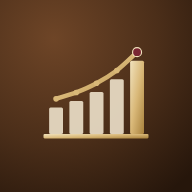
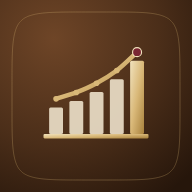
Marco de los iconos con la forma exacta de iOS
Claude-Session: https://claude.ai/code/session_016k35bzsaVrxmGnMwsVbJwM

diff --git a/sw.js b/sw.js
@@ -1,5 +1,5 @@
 /* CiccApps — funciona sin conexión: guarda una copia de cada app y sus piezas al visitarlas. */
-const CACHE = 'ciccapps-v4';
+const CACHE = 'ciccapps-v5';
 self.addEventListener('install', e => self.skipWaiting());
 self.addEventListener('activate', e => e.waitUntil(
   caches.keys().then(ks => Promise.all(ks.filter(k => k !== CACHE).map(k => caches.delete(k)))).then(() => self.clients.claim())
